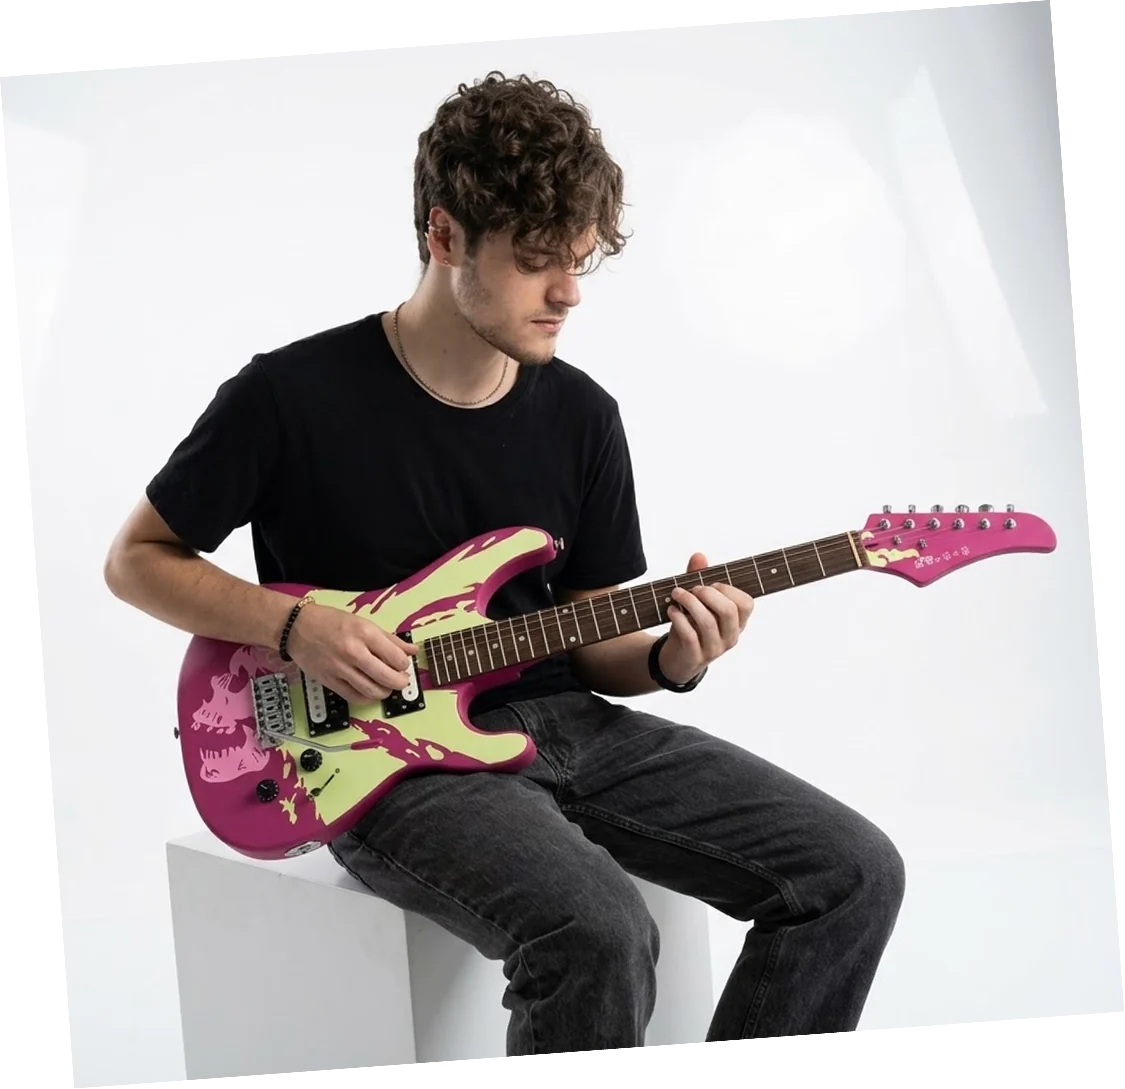
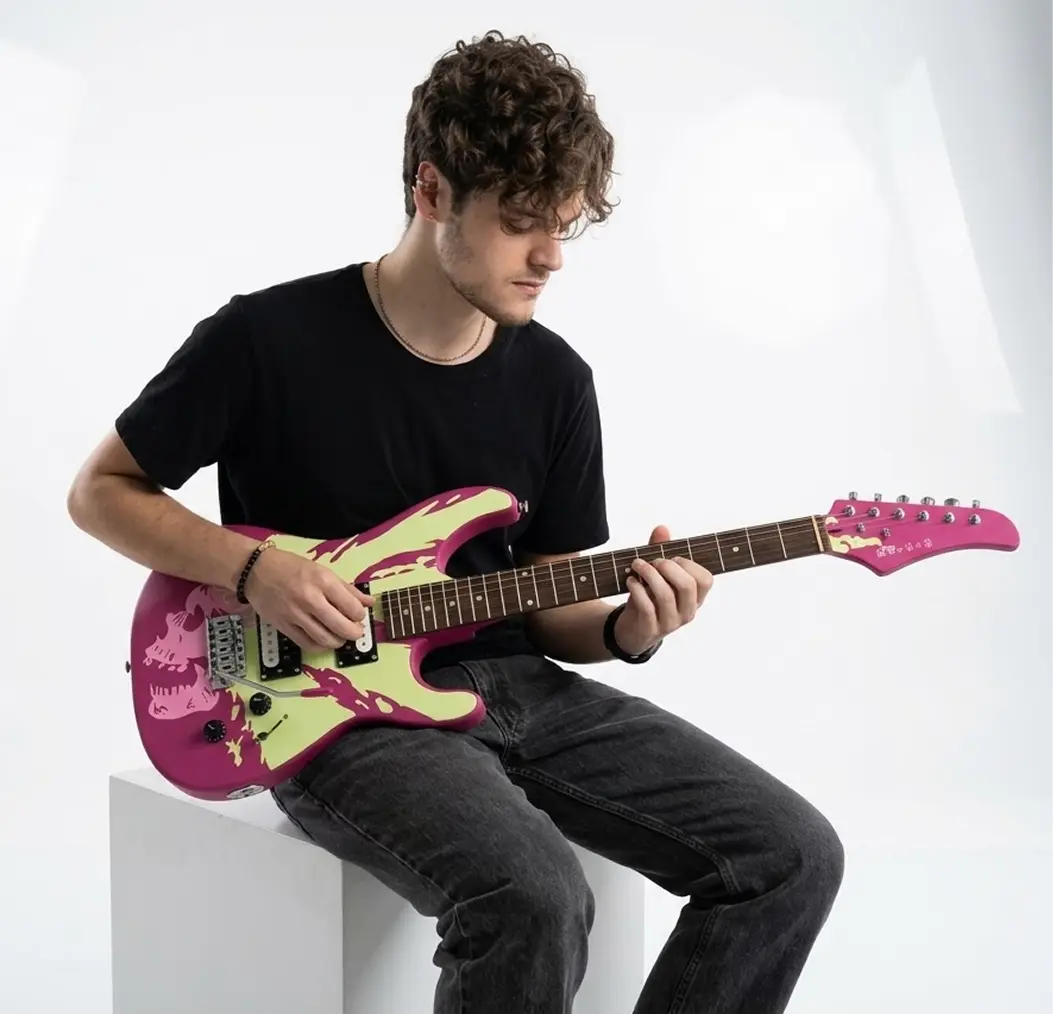
guitarra

Changed region(s): [[0.0608, 0.0, 1.0, 1.0], [0.0, 0.9773, 0.0304, 1.0], [0.0, 0.0, 0.0304, 0.0305]]

diff --git a/yura/css/style.css b/yura/css/style.css
@@ -1119,3 +1119,246 @@ body::after {
     animation: none;
   }
 }
+
+/* ---------- closing call-to-order ---------- */
+
+.closer {
+  position: relative;
+  z-index: 1;
+  overflow: hidden;
+  text-align: center;
+  padding: clamp(84px, 15vh, 172px) 20px clamp(72px, 12vh, 148px);
+}
+
+/* Oversized kanji watermark drifting behind the closing copy. */
+.closer-kanji {
+  position: absolute;
+  left: 50%;
+  top: 46%;
+  transform: translate(-50%, -50%);
+  font-family: var(--font-kanji);
+  font-weight: 700;
+  font-size: clamp(200px, 40vw, 620px);
+  line-height: 1;
+  white-space: nowrap;
+  color: rgba(255, 255, 255, .04);
+  pointer-events: none;
+  user-select: none;
+}
+
+.closer-inner {
+  position: relative;
+  z-index: 1;
+  display: flex;
+  flex-direction: column;
+  align-items: center;
+}
+
+.closer-eyebrow {
+  margin: 0;
+  font-family: var(--font-mono);
+  font-size: clamp(11px, 1vw, 14px);
+  letter-spacing: .22em;
+  text-transform: uppercase;
+  color: var(--pink);
+}
+
+.closer-title {
+  margin: clamp(14px, 1.8vw, 24px) 0 0;
+  font-family: var(--font-sans);
+  font-weight: 800;
+  font-size: clamp(38px, 6vw, 96px);
+  line-height: .98;
+  letter-spacing: -.02em;
+  color: var(--ink);
+}
+
+.closer-sub {
+  margin: clamp(16px, 2vw, 26px) 0 0;
+  font-family: var(--font-mono);
+  font-size: clamp(12px, 1.1vw, 16px);
+  color: var(--muted);
+}
+
+.closer-cta {
+  margin-top: clamp(24px, 3vw, 40px);
+  padding: .82em 2.1em;
+  border-radius: 999px;
+  background: var(--pink);
+  color: var(--ink);
+  font-family: var(--font-sans);
+  font-size: clamp(15px, 1.3vw, 20px);
+  font-weight: 600;
+  line-height: 1;
+  letter-spacing: .01em;
+  text-decoration: none;
+  box-shadow: 0 10px 26px rgba(236, 30, 121, .34);
+  transition: background .18s ease, transform .18s ease, box-shadow .18s ease;
+}
+
+.closer-cta:hover {
+  background: var(--pink-hover);
+  transform: translateY(-2px);
+  box-shadow: 0 14px 36px rgba(255, 61, 144, .5);
+}
+
+.closer-cta:active {
+  transform: translateY(0);
+  box-shadow: 0 6px 16px rgba(236, 30, 121, .34);
+}
+
+/* ---------- footer ---------- */
+
+.site-footer {
+  position: relative;
+  z-index: 1;
+  display: flex;
+  flex-direction: column;
+  align-items: center;
+  gap: clamp(22px, 3.2vh, 36px);
+  text-align: center;
+  padding: clamp(40px, 7vh, 72px) 20px clamp(40px, 6vh, 64px);
+  border-top: 1px solid rgba(255, 255, 255, .08);
+  background: linear-gradient(180deg, rgba(0, 0, 0, 0) 0%, rgba(0, 0, 0, .55) 100%);
+}
+
+.back-to-top {
+  display: inline-flex;
+  flex-direction: column;
+  align-items: center;
+  gap: 8px;
+  color: var(--ink);
+  text-decoration: none;
+  font-family: var(--font-sans);
+  font-size: clamp(13px, 1vw, 15px);
+}
+
+.back-chevron {
+  width: 22px;
+  height: auto;
+  transition: transform .2s ease;
+}
+
+.back-to-top:hover {
+  color: var(--pink-hover);
+}
+
+.back-to-top:hover .back-chevron {
+  transform: translateY(-3px);
+}
+
+.footer-logo {
+  position: relative;
+  display: inline-block;
+  text-decoration: none;
+  line-height: 0;
+}
+
+.footer-star {
+  width: clamp(104px, 11vw, 138px);
+  height: auto;
+  display: block;
+  filter: drop-shadow(0 8px 22px rgba(236, 30, 121, .4));
+}
+
+.footer-wordmark {
+  position: absolute;
+  left: 50%;
+  top: 57%;
+  transform: translate(-50%, -50%);
+  font-family: var(--font-sans);
+  font-weight: 800;
+  font-size: clamp(23px, 2.4vw, 31px);
+  letter-spacing: .02em;
+  line-height: 1;
+  color: #fff;
+}
+
+.footer-region {
+  font-family: var(--font-mono);
+  font-size: clamp(12px, 1vw, 14px);
+  letter-spacing: .16em;
+  text-transform: uppercase;
+  color: var(--ink);
+  text-decoration: underline;
+  text-underline-offset: 4px;
+  transition: color .18s ease;
+}
+
+.footer-region:hover {
+  color: var(--pink-hover);
+}
+
+.footer-social {
+  display: flex;
+  gap: clamp(20px, 2.6vw, 34px);
+  margin: 0;
+  padding: 0;
+  list-style: none;
+}
+
+.footer-social a {
+  display: grid;
+  place-items: center;
+  color: var(--ink);
+  transition: color .18s ease, transform .18s ease;
+}
+
+.footer-social svg {
+  width: 24px;
+  height: 24px;
+  display: block;
+}
+
+.footer-social a:hover {
+  color: var(--pink-hover);
+  transform: translateY(-2px);
+}
+
+.footer-links {
+  display: flex;
+  flex-wrap: wrap;
+  justify-content: center;
+  align-items: center;
+  max-width: 760px;
+}
+
+.footer-links a {
+  font-family: var(--font-mono);
+  font-size: clamp(10px, .85vw, 13px);
+  letter-spacing: .1em;
+  text-transform: uppercase;
+  color: var(--ink);
+  text-decoration: underline;
+  text-underline-offset: 3px;
+  transition: color .18s ease;
+}
+
+.footer-links a:hover {
+  color: var(--pink-hover);
+}
+
+.footer-links a:not(:last-child)::after {
+  content: "|";
+  display: inline-block;
+  margin: 0 clamp(8px, 1.1vw, 16px);
+  color: rgba(255, 255, 255, .3);
+  text-decoration: none;
+}
+
+.footer-copy {
+  margin: 0;
+  max-width: 62ch;
+  font-family: var(--font-mono);
+  font-size: clamp(10px, .85vw, 13px);
+  line-height: 1.6;
+  color: var(--muted);
+}
+
+@media (prefers-reduced-motion: reduce) {
+  .closer-cta,
+  .back-chevron,
+  .footer-social a {
+    transition: none;
+  }
+}

diff --git a/yura/index.html b/yura/index.html
@@ -58,7 +58,7 @@
     </nav>
   </header>
 
-  <main class="hero">
+  <main class="hero" id="top">
     <div class="splash" aria-hidden="true"></div>
     <div class="hero-stage">
     <img class="hero-guitar" src="assets/img/hakkotai.webp"
@@ -178,6 +178,91 @@
       <button class="dot" type="button" aria-label="Go to card 3"></button>
     </div>
   </section>
+
+  <section class="closer" aria-label="Order the HAKKOTAI">
+    <span class="closer-kanji" lang="ja" aria-hidden="true">発光体</span>
+    <div class="closer-inner">
+      <p class="closer-eyebrow">HAKKOTAI · 発光体</p>
+      <h2 class="closer-title">Bring the glow home.</h2>
+      <p class="closer-sub">From $300 or $33.99&nbsp;mo. for 9&nbsp;mo.</p>
+      <a class="closer-cta" href="#">Order now</a>
+    </div>
+  </section>
+
+  <footer class="site-footer">
+    <a class="back-to-top" href="#top">
+      <svg class="back-chevron" viewBox="0 0 24 12" aria-hidden="true" fill="none" stroke="currentColor"
+        stroke-width="2" stroke-linecap="round" stroke-linejoin="round">
+        <path d="M2 10 12 2l10 8" />
+      </svg>
+      <span>Back to Top</span>
+    </a>
+
+    <a class="footer-logo" href="#top" aria-label="YURA — back to top">
+      <svg class="footer-star" viewBox="0 0 37 35" aria-hidden="true">
+        <defs>
+          <linearGradient id="yura-star" x1="0.1" y1="0" x2="0.9" y2="1">
+            <stop offset="0" stop-color="#ff5aa6" />
+            <stop offset="1" stop-color="#c8106a" />
+          </linearGradient>
+        </defs>
+        <path d="M19.0947 0V12.6153L37 4.68012L27.1003 17.9797L37 35L18.5 19.6964L0 35L9.54735 17.5L19.0947 0Z"
+          fill="url(#yura-star)" />
+      </svg>
+      <span class="footer-wordmark">YURA</span>
+    </a>
+
+    <a class="footer-region" href="#">Change your region</a>
+
+    <ul class="footer-social" aria-label="YURA on social media">
+      <li>
+        <a href="#" aria-label="Instagram">
+          <svg viewBox="0 0 24 24" aria-hidden="true" fill="none" stroke="currentColor" stroke-width="1.8">
+            <rect x="3" y="3" width="18" height="18" rx="5.2" />
+            <circle cx="12" cy="12" r="4.1" />
+            <circle cx="17.3" cy="6.7" r="1.15" fill="currentColor" stroke="none" />
+          </svg>
+        </a>
+      </li>
+      <li>
+        <a href="#" aria-label="YouTube">
+          <svg viewBox="0 0 24 24" aria-hidden="true">
+            <path fill="currentColor"
+              d="M23 12s0-3.3-.42-4.86a2.52 2.52 0 0 0-1.77-1.79C19.24 5 12 5 12 5s-7.24 0-8.81.35A2.52 2.52 0 0 0 1.42 7.14C1 8.7 1 12 1 12s0 3.3.42 4.86a2.52 2.52 0 0 0 1.77 1.79C4.76 19 12 19 12 19s7.24 0 8.81-.35a2.52 2.52 0 0 0 1.77-1.79C23 15.3 23 12 23 12z" />
+            <path fill="#060104" d="M9.8 15.4V8.6l6 3.4z" />
+          </svg>
+        </a>
+      </li>
+      <li>
+        <a href="#" aria-label="TikTok">
+          <svg viewBox="0 0 24 24" aria-hidden="true" fill="currentColor">
+            <path
+              d="M16.6 3c.32 2.2 1.55 3.68 3.64 4v2.72c-1.32.12-2.56-.3-3.64-1.03v5.98c0 3.46-2.5 5.7-5.5 5.7-2.86 0-5.1-2.06-5.1-5 0-3.08 2.6-5.22 5.72-4.78v2.86c-.32-.1-.7-.16-1.05-.16-1.2 0-2.16.94-2.16 2.16 0 1.28 1 2.16 2.16 2.16 1.34 0 2.36-1.02 2.36-2.66V3h3.57z" />
+          </svg>
+        </a>
+      </li>
+      <li>
+        <a href="#" aria-label="X">
+          <svg viewBox="0 0 24 24" aria-hidden="true" fill="currentColor">
+            <path
+              d="M17.53 3h3.02l-6.6 7.54L21.75 21h-5.9l-4.62-6.04L5.94 21H2.92l7.06-8.07L2.4 3h6.05l4.18 5.52zm-1.06 16.2h1.67L7.6 4.7H5.8z" />
+          </svg>
+        </a>
+      </li>
+    </ul>
+
+    <nav class="footer-links" aria-label="Footer">
+      <a href="#">Contact</a>
+      <a href="#">Terms</a>
+      <a href="#">Privacy Policy</a>
+      <a href="#">Counterfeit Warning</a>
+      <a href="#">Accessibility</a>
+      <a href="#">Sitemap</a>
+    </nav>
+
+    <p class="footer-copy">Copyright © 2026 Yura guitars. All rights reserved. Products and specifications
+      are subject to change without notice.</p>
+  </footer>
 
   <script src="js/showcase.js"></script>
 </body>
